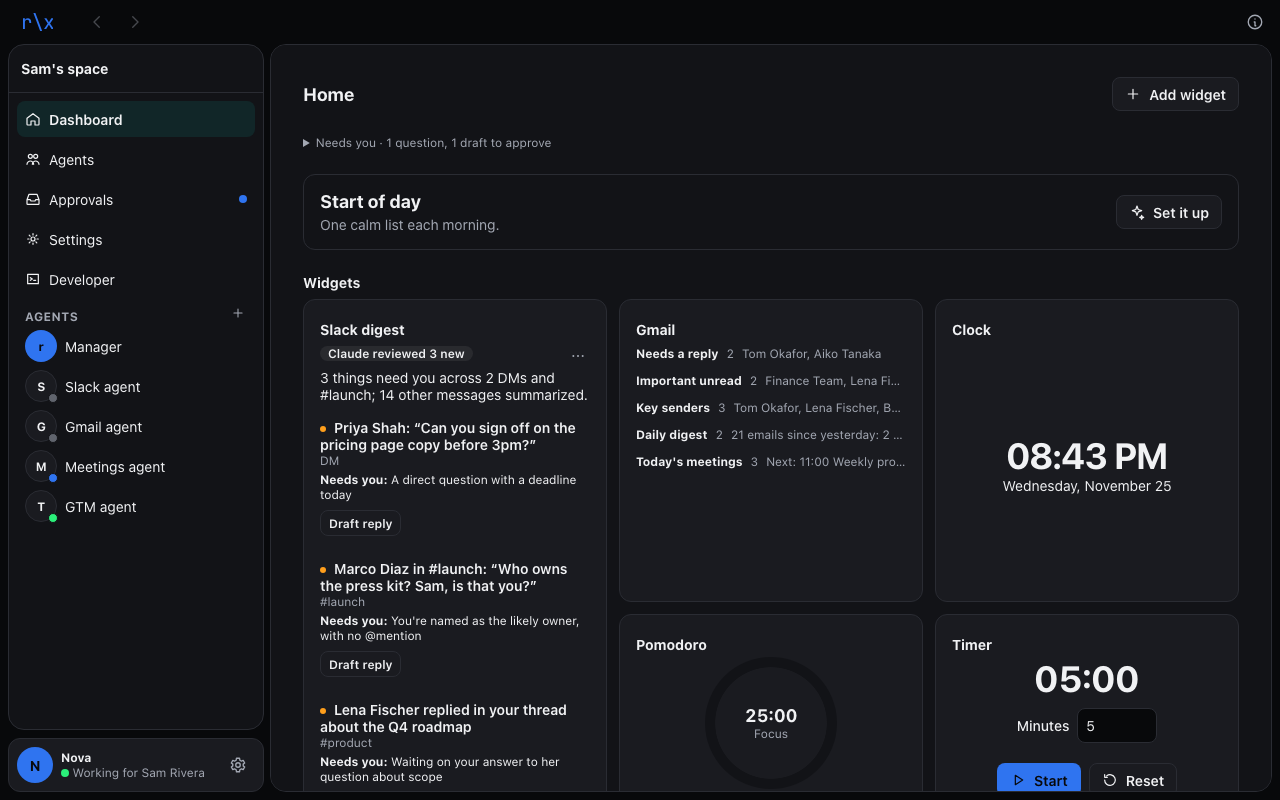
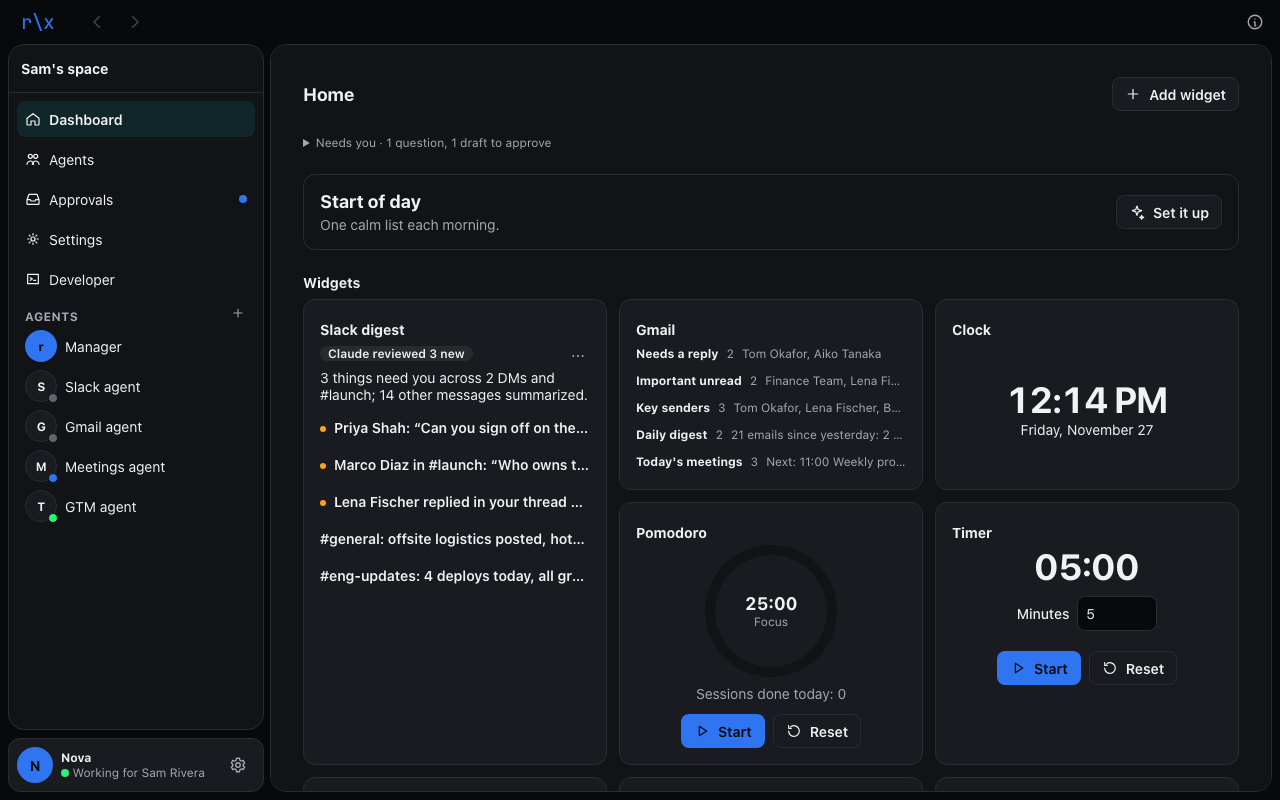
Slack digest, calm: one line per item; channel, reason and Draft reply on hover or focus
Each digest item is now one line, its title, as Gmail's mail is. The channel and time,
"Needs you: <reason>" and Draft reply show on hover or keyboard focus (Tab reaches the
button), and the line unwraps then. Connector widgets from a manifest use the same row.
Default Home tile: 9 lines and no buttons, down from 28 lines and 3 buttons.

diff --git a/src/widgets/ConnectorWidgets.tsx b/src/widgets/ConnectorWidgets.tsx
@@ -1,5 +1,5 @@
 import { useEffect, useState, type ReactNode } from "react";
-import type { Feed, GmailDashboard } from "../engine/fake/data.ts";
+import type { Feed, FeedItem, GmailDashboard } from "../engine/fake/data.ts";
 import { useEngineData, useNow } from "../engine/hooks.ts";
 import { useApp } from "../state/context.ts";
 import type { Draft } from "../state/model.ts";
@@ -29,6 +29,29 @@ function useCreateDraft() {
 }
 
 const SLACK_INTERVALS = [5, 10, 15, 30, 60] as const;
+
+/**
+ * One feed item, calm: a single line, its title. The channel, time, the reason it needs you
+ * and any action show on hover or keyboard focus, as Gmail's mail does, and the line unwraps
+ * then.
+ */
+function FeedRow({ item, action }: { item: FeedItem; action?: ReactNode }) {
+  const meta = [item.subtitle, item.time].filter(Boolean).join(" · ");
+  return (
+    <li className={`feed__item reveal-host${item.needsYou ? " feed__item--needs-you" : ""}`} tabIndex={0}>
+      <div className="feed__title feed__line">{item.title}</div>
+      <div className="reveal-block feed__more">
+        {meta ? <p className="muted">{meta}</p> : null}
+        {item.needsYou && item.why ? (
+          <p className="feed__why" data-testid="needs-you-why">
+            <strong>Needs you:</strong> {item.why}
+          </p>
+        ) : null}
+        {action}
+      </div>
+    </li>
+  );
+}
 
 export function SlackDigestWidget({ settingsOpen }: { settingsOpen: boolean }) {
   const { state, updateSettings, dispatch, demo } = useApp();
@@ -106,17 +129,11 @@ export function SlackDigestWidget({ settingsOpen }: { settingsOpen: boolean }) {
           <p className="feed__summary">{data.summary}</p>
           <ul className="feed__list">
             {data.items.map((item) => (
-              <li key={item.id} className={`feed__item reveal-host${item.needsYou ? " feed__item--needs-you" : ""}`} tabIndex={0}>
-                <div className="feed__title">{item.title}</div>
-                <div className="feed__sub">
-                  {item.subtitle}
-                  <span className="reveal"> · {item.time}</span>
-                </div>
-                {item.needsYou ? (
-                  <>
-                    <div className="feed__why" data-testid="needs-you-why">
-                      <strong>Needs you:</strong> {item.why}
-                    </div>
+              <FeedRow
+                key={item.id}
+                item={item}
+                action={
+                  item.needsYou ? (
                     <button
                       type="button"
                       className="button button--sm"
@@ -132,9 +149,9 @@ export function SlackDigestWidget({ settingsOpen }: { settingsOpen: boolean }) {
                     >
                       Draft reply
                     </button>
-                  </>
-                ) : null}
-              </li>
+                  ) : undefined
+                }
+              />
             ))}
           </ul>
         </>
@@ -317,18 +334,7 @@ export function GenericConnectorWidget({ manifest }: { manifest: GenericManifest
       <p className="feed__summary">{data.summary}</p>
       <ul className="feed__list">
         {data.items.map((item) => (
-          <li key={item.id} className={`feed__item reveal-host${item.needsYou ? " feed__item--needs-you" : ""}`} tabIndex={0}>
-            <div className="feed__title">{item.title}</div>
-            <div className="feed__sub">
-              {item.subtitle}
-              <span className="reveal"> · {item.time}</span>
-            </div>
-            {item.needsYou && item.why ? (
-              <div className="feed__why">
-                <strong>Needs you:</strong> {item.why}
-              </div>
-            ) : null}
-          </li>
+          <FeedRow key={item.id} item={item} />
         ))}
       </ul>
     </div>

diff --git a/e2e/web/keyboard-reveal.spec.ts b/e2e/web/keyboard-reveal.spec.ts
@@ -13,7 +13,7 @@ async function tabTo(page: Page, target: Locator, max = 200): Promise<void> {
   throw new Error("Tab never reached the target");
 }
 
-test("Home: an agent's next wake, a Slack item's time and the digest's interval show on keyboard focus", async ({ page }) => {
+test("Home: an agent's next wake, a Slack item's channel, reason and Draft reply, and the digest's interval show on keyboard focus", async ({ page }) => {
   await openShell(page);
   const wake = page.locator("#wake-meetings-agent");
   await expect(wake).toHaveCSS("opacity", "0");
@@ -28,10 +28,15 @@ test("Home: an agent's next wake, a Slack item's time and the digest's interval 
   await tabTo(page, meta);
   await expect(meta.locator(".reveal")).toHaveCSS("opacity", "1");
 
-  const item = slack.locator(".feed__item").first();
-  await expect(item.locator(".reveal")).toHaveCSS("opacity", "0");
+  // Each item is one line; the rest shows on focus, and Tab reaches its Draft reply.
+  const item = slack.locator(".feed__item--needs-you").first();
+  const draft = item.getByRole("button", { name: "Draft reply" });
+  await expect(item.locator(".reveal-block")).toBeHidden();
+  await expect(draft).toBeHidden();
   await tabTo(page, item);
-  await expect(item.locator(".reveal")).toHaveCSS("opacity", "1");
+  await expect(item.getByTestId("needs-you-why")).toBeVisible();
+  await tabTo(page, draft);
+  await expect(draft).toBeFocused();
 });
 
 test("Channel: a message's time and a priority item's reason show on keyboard focus; Escape hides the reason", async ({ page }) => {

diff --git a/src/widgets/widgets.test.tsx b/src/widgets/widgets.test.tsx
@@ -89,6 +89,27 @@ describe("Slack digest", () => {
     }
   });
 
+  it("shows each item as one line, with its channel, reason and Draft reply behind hover or focus", async () => {
+    wrap(<SlackDigestWidget settingsOpen={false} />);
+    await screen.findByText(/Priya Shah/);
+    const items = [...document.querySelectorAll<HTMLElement>(".feed__item")];
+    expect(items.length).toBe(5);
+    for (const item of items) {
+      // The item's one line: its title, the only thing outside the reveal.
+      const shown = [...item.children].filter((child) => !child.classList.contains("reveal-block"));
+      expect(shown.map((child) => child.className)).toEqual(["feed__title feed__line"]);
+      expect(item.tabIndex).toBe(0);
+    }
+    for (const item of document.querySelectorAll<HTMLElement>(".feed__item--needs-you")) {
+      const more = item.querySelector<HTMLElement>(".reveal-block")!;
+      expect(within(more).getByTestId("needs-you-why")).toBeTruthy();
+      // Hidden until hover or focus: not in the accessibility tree by default.
+      expect(within(item).queryByRole("button", { name: "Draft reply" })).toBeNull();
+      expect(within(more).getByRole("button", { name: "Draft reply", hidden: true })).toBeTruthy();
+      expect(more.textContent).toMatch(/^(DM|#[\w-]+) · \d+ (min|h) ago/);
+    }
+  });
+
   it("lets the interval be changed", async () => {
     wrap(<SlackDigestWidget settingsOpen />);
     fireEvent.change(await screen.findByLabelText("Slack digest interval"), { target: { value: "30" } });

diff --git a/src/App.css b/src/App.css
@@ -756,7 +756,7 @@ input[type="color"] {
   padding: 0;
   display: flex;
   flex-direction: column;
-  gap: var(--rlx-space-2);
+  gap: var(--rlx-space-1);
 }
 
 /* Items sit on the widget itself, grouped by spacing: no card inside the card. */
@@ -786,14 +786,30 @@ input[type="color"] {
   font-weight: 600;
 }
 
-.feed__sub {
+/* One line per item, its title; the rest shows on hover or keyboard focus (as Gmail's mail),
+   and the line unwraps then. */
+.feed__line {
+  min-width: 0;
+  overflow: hidden;
+  text-overflow: ellipsis;
+  white-space: nowrap;
+}
+
+.reveal-host:hover > .feed__line,
+.reveal-host:focus-within > .feed__line {
+  white-space: normal;
+}
+
+.feed__more p {
+  margin: var(--rlx-space-1) 0 0;
   font-size: var(--rlx-text-sm);
-  color: var(--rlx-muted);
+}
+
+.feed__more .button {
+  margin-top: var(--rlx-space-2);
 }
 
 .feed__why {
-  margin: var(--rlx-space-1) 0 var(--rlx-space-2);
-  font-size: var(--rlx-text-sm);
   color: var(--rlx-foreground);
 }
 
